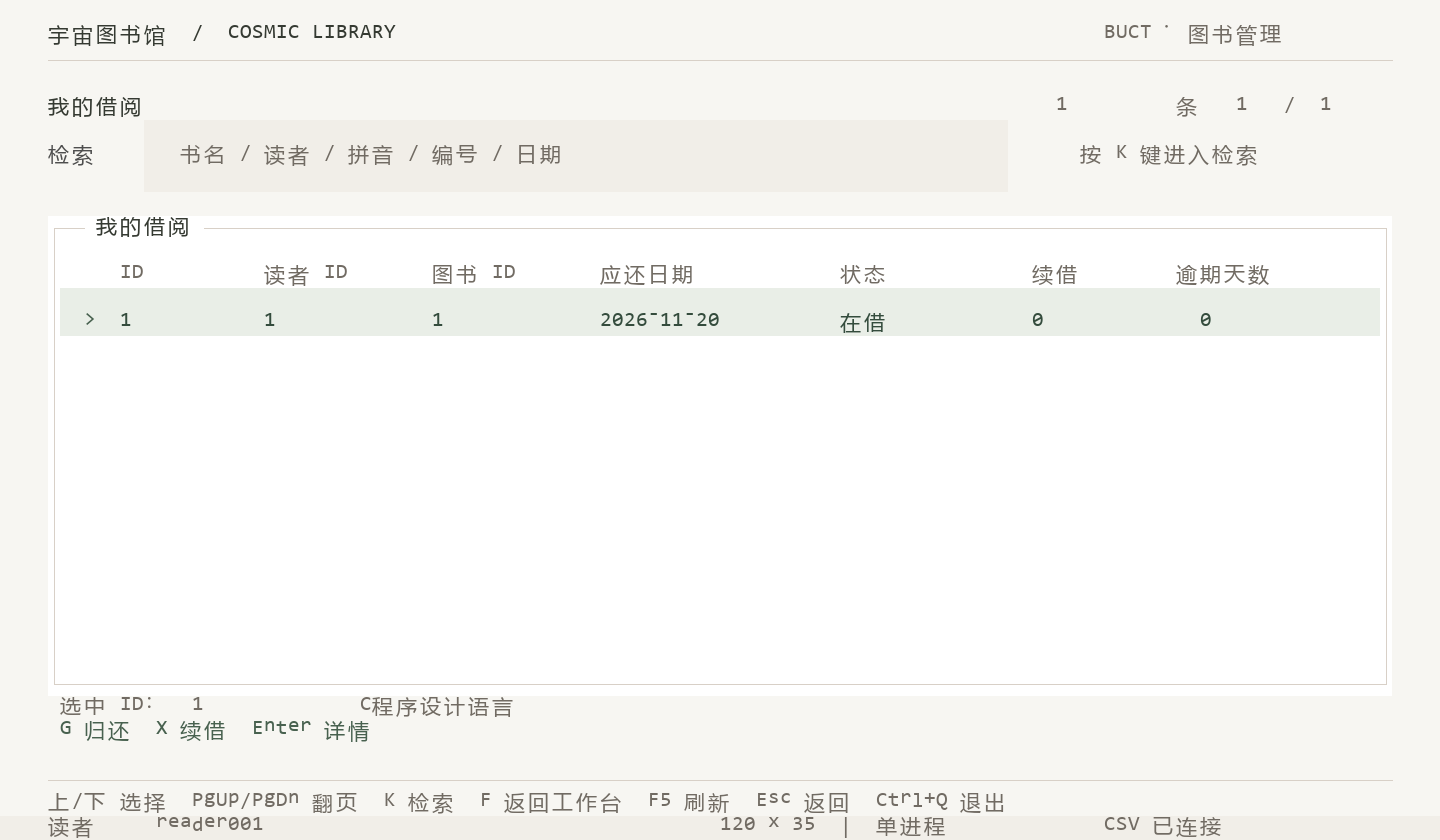
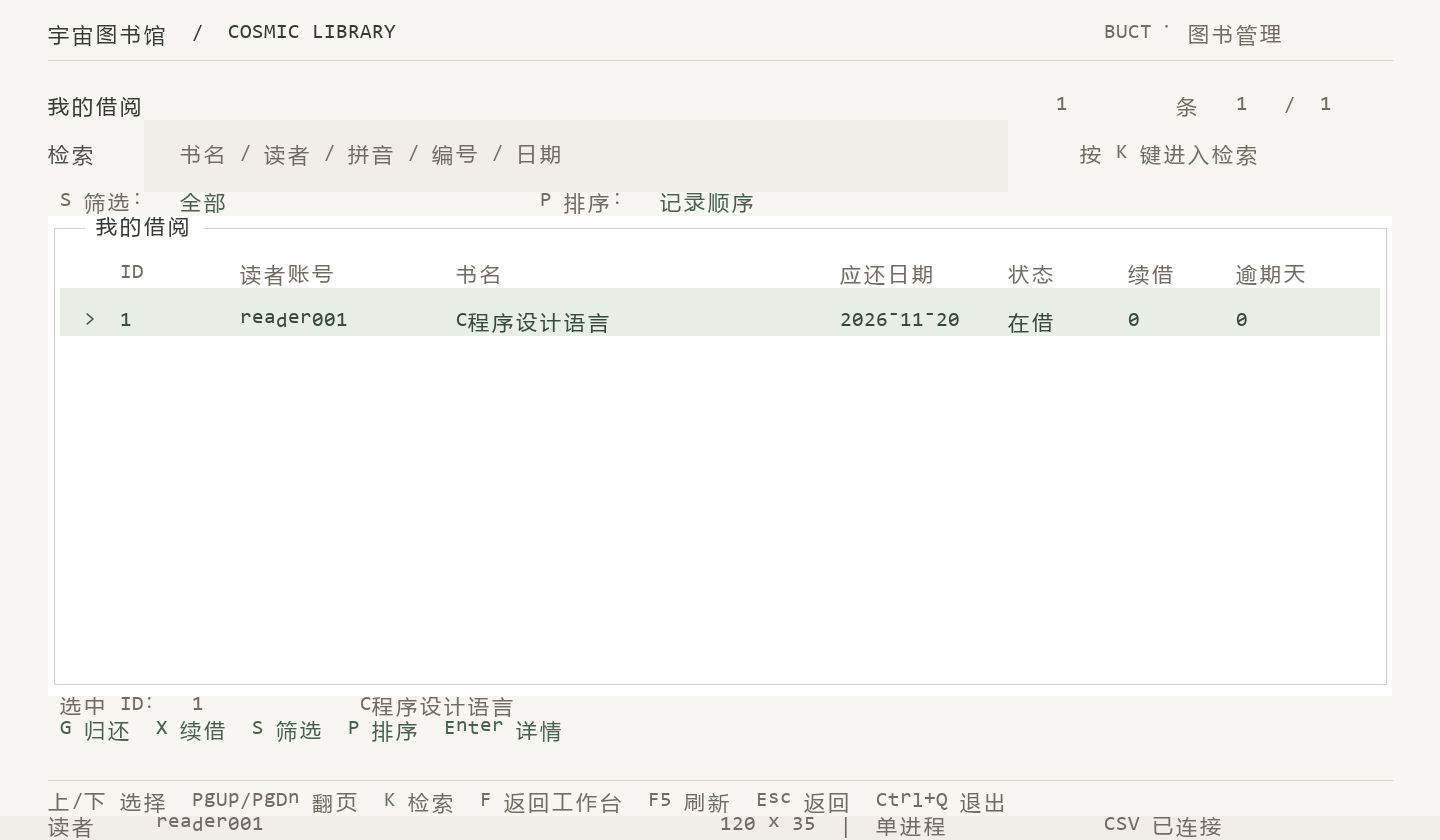
docs: 记录名称办理与 ABD 验收及启动方式

diff --git a/docs/借阅易用性与ABD功能记录.md b/docs/借阅易用性与ABD功能记录.md
@@ -1,0 +1,49 @@
+# 借阅易用性、A/B/D与本地启动入口
+
+2026-10-22。用户授权：完成后在start留编译产物、借书/预约不再要求记图书ID或读者ID、实现A筛选排序/B图书资料编辑/D到期提醒。以下均已实现，未改五表CSV结构和业务期限/罚款口径。
+
+## 本地启动
+
+双击项目start/CosmicLibrary.exe，或启动图书馆.cmd。make、tools/run-library.ps1编译后自动发布唯一C exe到start/app/，latest.txt指向最新版本；不覆盖正在运行的旧C exe，不重置数据。
+
+CosmicLibrary.exe是用tools/start/Launcher.cs编译的外部.NET环境启动器，只启动PowerShell的-UsePublished模式，负责UTF8、120×35可见窗口检查、数据准备与原单写者句柄保护。业务仍在纯C程序中，没有把.NET当作允许的C函数或后台自动同步实现。预编译启动不要求再次运行GCC；若构建机没有.NET Framework csc，保留cmd替代入口并提示。
+
+源码和协作流程已记录AGENTS.md；exe与latest.txt本地保留、Git忽略。源码包工具包含C#、cmd及start说明，仍不包含运行数据和exe。不要单独移动start目录或直接打开app内C exe绕过参数/环境保护。
+
+## 借书与预约
+
+- 读者从目录选书后J借书/Y预约，确认框显示书名、ISBN、本人姓名和账号，不需输入ID。
+- 管理员从目录操作自动携带选中书名与稳定内部书号；或工作台“办理借书”输入读者账号/姓名、书名/ISBN，支持原有拼音与首字母。
+- 账号/ISBN完全一致优先，再按完全一致姓名/书名、最后模糊匹配。重名与多结果必须在候选框选择，姓名相同也显示不同账号，书名相同也显示作者和ISBN；不自动猜第一个。
+- 输入字段Enter确认并定位下一项；Tab仅切换。点保存时仍会解析未确认的输入，需要选择时弹出候选框。选择绑定ID，修改字段后旧绑定失效；提交前重新校验记录、权限、库存与预约规则。
+- 借阅和预约列表显示读者账号、书名，详情仍可查看内部记录引用。确认操作保持Y/N，原子保存不变。
+
+## A 筛选与排序
+
+我的借阅/管理员借阅管理：S循环全部、在借、已还、逾期、7天内到期、到期提醒；P循环记录顺序、应还日期升序、降序。搜索、归属过滤、筛选和排序可以组合，切换后定位到结果首行，滚动条反映结果数量。日期同值时按记录ID升序，手写归并排序，无qsort/bsearch。
+
+## B 图书资料编辑
+
+图书管理B打开选中图书的编辑表单，预填ISBN、书名、作者。保存保留书ID、库存、状态、创建时间与历史借阅/预约引用；副本仍走“增加副本”。只允许管理员，ISBN查重、容量与UTF8按原Schema验证；表单原始资料与当前资料不一致时拒绝静默覆盖，保留输入。
+
+未修改取消直接返回；修改后取消需确认，拒绝放弃时保留输入。保存通过同一双槽事务，保存失败不污染已提交数据，状态不确定仍按原规则阻止盲目重试。
+
+## D 到期提醒
+
+管理员/读者工作台显示7天内到期与已逾期数量。借出状态active且应还日在今天至未来第7天（含边界）为即将到期，第8天不计入；应还日今天不算逾期，已还记录排除。读者只汇总自己，管理员汇总所有读者。
+
+工作台D直接进入到期提醒列表（含逾期），按应还日期升序；查看其他结果可用S切换。进入页面、普通输入事件的当前日期和F5刷新更新视图，不是无按键定时提醒，不发送短信/邮件，不改变现有借阅限制。
+
+## 实际验证
+
+完整make test通过：基础55、搜索22、迁移66、应用153、原型67、旧参照91，共454项C断言及额外脚本检查；35个活动C文件/头文件和43个legacy哈希核对通过。严格C11零警告构建。日志build/abd-full-regression.log。
+
+新增覆盖：重名读者/同名书的显式选择、输入修改后旧身份失效、人类可读确认框、实际借出准确对象、预约同一路径；资料权限/重复ISBN/过期表单/保存中断恢复；到期当天/第7天/第8天/其他读者隔离；状态筛选、日期升降序、检索模式不误触控制。
+
+ConPTY从start发布的C exe，独立build/acceptance/abd-*目录验证：管理员通过“示例读者”与已选书名办理借出，确认框实际输出书名/姓名/账号，CSV核对借给正确账号的正确图书；D提醒列表与S/P可操作；B编辑追加“实测”到书名后保存，书ID/3总册/2可借保持不变；CtrlQ退出0。该工具80×24，只证明实际I/O，不冒称窗口字体与鼠标验收。未打开用户桌面上的额外测试窗口。
+
+start发布的C exe与最新编译exe SHA256一致；-UsePublished -BuildOnly成功，不重新编译C。外部launcher已实际编译，双击后的用户终端观感待用户检查。
+
+[借书表单](implementation/feature-borrow.png)、[读者候选](implementation/feature-reader-picker.png)、[图书候选](implementation/feature-book-picker.png)、[确认框](implementation/feature-confirm.png)、[编辑页](implementation/feature-edit-book.png)、[到期列表](implementation/feature-due-loans.png)、[工作台提醒](implementation/feature-reader-home.png)为独立合成测试数据的C ANSI帧复现，1440×840/120×35，已目视核对，不是终端截图。
+
+本轮不制作PPT/报告，不实施未选C/E/F/G，不开放多终端，不改用户build/library-data或正式data/。

diff --git a/docs/续接摘要.md b/docs/续接摘要.md
@@ -2,9 +2,21 @@
 
 更新：2026-10-21晚间。用户要求推送Gitee并整理任务，明天继续。该段为昨晚保存背景；现已按本日优先级继续，未创建提醒。[明日任务清单](明日任务清单.md)是接续入口。
 
+## 最新要求与完成项：A/B/D、名称办理、start
+
+用户已明确选择A+B+D，另要求借阅/预约不记ID、以后每轮完成后在start放编译exe。三类改动已完成，见[本轮记录](借阅易用性与ABD功能记录.md)。AGENTS.md记录持续发布约定。
+
+入口start/CosmicLibrary.exe是外部.NET环境启动器，调用PowerShell -UsePublished（不重编译），实际纯C exe在start/app/，latest.txt指向最新版。make和编译脚本自动发布，cmd作为fallback；启动器保持UTF8/120×35/单写者保护，数据仍build/library-data。二进制/manifest不提交，源代码在tools/start、tools/publish-start.ps1。勿直接运行app内无参数C exe。
+
+管理员可输入账号/姓名或书名/ISBN，支持拼音。重名强制候选选择，显示账号/作者/ISBN；读者直接选书确认。确认框显示书名/ISBN/姓名/账号，编辑输入会撤销旧ID绑定，最终仍按ID重验提交。借阅/预约列表显示可读名字。
+
+A：借阅S循环全部/在借/已还/逾期/7天内到期/到期提醒；P循环记录/日期升降序，合并角色与搜索过滤。B：图书管理B复用新增表单编辑ISBN/书名/作者，不改库存和身份；原资料变化拒绝覆盖，保留输入。D：工作台显示即将到期/逾期，D跳转提醒列表；0~7天含边界，8天排除，读者仅本人，管理员全体，非后台定时。
+
+完整回归454项：基础55/搜索22/迁移66/应用153/原型67/旧91，35个活动C文件、43个旧参照哈希；实际ConPTY从发布版按姓名借书、人类可读确认、D/S/P、B编辑并核对CSV通过；80×24只是I/O证据。预编译入口与编译版SHA一致。16张C帧图已检查，非用户窗口截图。未改真实数据、未做PPT、未实现未选C/E/F/G。
+
 ## 2026-10-22最新优先级
 
-用户已恢复工作，明确先把程序功能完善，PPT/报告等暂缓，不再沿昨晚交付清单直接制作材料。用户点名拼音模糊搜索和借阅页滚动条，两项已实现；另要求查网上成熟系统功能，展示后由他决定新增哪些。候选A筛选排序/B图书编辑/C资料密码维护/D到期提醒/E书单/F统计导出/G分类位置见[功能补齐与参考方案](功能补齐与参考方案.md)，尚未获选的不要自动实现。单进程和课程白名单不变，多终端仍暂缓。
+用户已恢复工作，明确先把程序功能完善，PPT/报告等暂缓，不再沿昨晚交付清单直接制作材料。用户点名拼音模糊搜索和借阅页滚动条，两项已实现；另要求查网上成熟系统功能，展示后由他决定新增哪些。A/B/D已获选并完成；未选C资料密码维护/E书单/F统计导出/G分类位置见[功能补齐与参考方案](功能补齐与参考方案.md)，尚未获选的不要自动实现。单进程和课程白名单不变，多终端仍暂缓。
 
 本轮搜索22、应用115、原型67与34个活动C文件核对通过，归档43哈希不变。静态拼音字表44,350汉字，Unicode17.0官方来源与许可附在tools/search；支持多读音、全拼/首字母/混合输入，不做错拼纠正或词义消歧。借阅等列表关联书名/姓名搜索，不含hash/salt，先按读者归属过滤。ANSI滚动条只显示位置，超过8条出现，随分页上下，沿用键盘，不引入鼠标/Win32。
 

diff --git a/README.md b/README.md
@@ -6,6 +6,9 @@
 
 ## 启动
 
+本机检查可直接双击`start/CosmicLibrary.exe`，使用已编译程序，不必再运行GCC。每次编译会自动更新start/；外部启动器仅配置环境与保护数据，C业务仍遵守课程限制。新克隆先按下述命令编译一次。启动文件和运行数据不提交Git。
+
+
 使用 Windows GCC/MinGW，将 gcc 和 make 加入 PATH。在项目根目录的 PowerShell 执行：
 
 ```powershell
@@ -20,6 +23,8 @@
 
 启动器在整个运行期间持有目录独占句柄，请保持单进程并从脚本启动。直接执行 exe 没有此保护。两槽快照支持进程中断恢复，不保证断电落盘；新快照建立后不要手改 CSV 或让旧程序同时写入。F5 是手动刷新，无按键时不自动同步。
 
+借书/预约按读者账号、姓名、书名或ISBN办理，重名结果可选择，确认框显示名称。借阅S筛选/P排序，图书管理B编辑，工作台D查看到期提醒。详见[功能验证记录](docs/借阅易用性与ABD功能记录.md)。
+
 ## 构建与验证
 
 ```powershell
@@ -27,7 +32,7 @@ make
 make test
 ```
 
-`make` 仅编译新应用，唯一 exe 路径保存在 `build/application/latest.txt`，不启动、不准备数据、不覆盖已运行实例。`make test` 一次完成源码清单核对、新构建、基础55、迁移66、应用115、原型67、拼音检索22与旧参照91项，以及新进程持久化、真实文件锁失败恢复和启动器独占检查。测试需要 Python 3（PATH 或本机 Codex bundled runtime），兼容参照独立链接 BCrypt，新应用不链接。
+`make` 仅编译新应用，唯一 exe 路径保存在 `build/application/latest.txt`，不启动、不准备数据、不覆盖已运行实例。`make test` 一次完成源码清单核对、新构建、基础55、迁移66、应用153、原型67、拼音检索22与旧参照91项，以及新进程持久化、真实文件锁失败恢复和启动器独占检查。测试需要 Python 3（PATH 或本机 Codex bundled runtime），兼容参照独立链接 BCrypt，新应用不链接。
 
 可分别执行 `make audit`、`make test-foundation`、`make test-migration`、`make test-application`、`make test-preview`、`make test-legacy`。`make migrated` / `make run-migrated` 保留为新构建/运行别名。VS Code 的默认构建、运行和测试任务调用同一套脚本。
 

diff --git a/docs/plan.md b/docs/plan.md
@@ -10,6 +10,8 @@
 
 2026-10-22最新范围：用户要求先补齐程序而非制作PPT/报告。本轮已完成拼音模糊检索与键盘位置滚动条；更多候选功能等待用户选择，见[功能补齐与参考](功能补齐与参考方案.md)。交付材料与包更新暂缓，单进程/白名单约束不变。
 
+2026-10-22本轮：用户已授权并完成A筛选排序/B图书资料编辑/D到期提醒，以及名称查找办理借书/预约；新增start双击入口与持续发布约定。完整回归454项通过，[验证记录](借阅易用性与ABD功能记录.md)。未选C/E/F/G仍暂缓。
+
 ## 1. 目标与当前基线
 
 最新续接状态见[续接摘要](续接摘要.md)。按钮方案 A 已落实，固定 120×35，未选中灰色、选中浅绿底加 `>`；用户已恢复工作；基础工具层已完成，弹窗覆盖中文导致的边框错位已修正。详见[基础工具层验证记录](基础工具层验证记录.md)与[CSV/认证迁移记录](CSV与认证迁移验证记录.md)。

diff --git a/tools/application/README.md b/tools/application/README.md
@@ -17,3 +17,5 @@
 `capture.py` 把最新应用测试导出的 C ANSI 帧复现为 docs/implementation 图片，不是实际终端截图。普通字段显示范围与真实输入法/字体限制见[第五步验证记录](../../docs/第五步业务与界面验证记录.md)。
 
 工作台现为左导航、右侧数据概览和当前事项说明，Enter进入选中事项。表单底部有光标定位/插入/删除提示，PPT的admn插入i修正为admin已通过实际登录回归。按钮统一预留选中符号与空格，切换焦点时文字不跳动。
+
+新增：工作台D到期提醒；借阅S筛选/P日期排序；图书管理B编辑ISBN/书名/作者。管理员按读者姓名/账号与书名/ISBN办理借书/预约，多结果候选选择，确认显示名称。start/CosmicLibrary.exe提供已编译版本的外部环境启动入口，编译后自动更新，勿直接运行app内C exe。

diff --git a/docs/功能补齐与参考方案.md b/docs/功能补齐与参考方案.md
@@ -2,6 +2,8 @@
 
 2026-10-22。用户明确先完善程序，PPT等材料暂缓；以下候选功能等待用户选择，不因网络参考而自动实施。继续遵守课程白名单、单进程与当前CSV兼容边界。
 
+2026-10-22更新：用户已选择A+B+D，现已实现；C/E/F/G仍未选择，不自动实施。新增启动入口和名称办理详见[本轮记录](借阅易用性与ABD功能记录.md)。
+
 ## 本轮已补齐
 
 - 离线拼音搜索：深入理解计算机系统可用shenru、srlj、SHEN RU、理解jisuanji检索；支持原文、全拼、首字母、ASCII不区分大小写、拼音/中文混合、ISBN省略连字符。借阅/预约/罚款搜索会关联书名、作者、读者编号/姓名；不搜索密码散列/盐，不越过角色记录范围。
